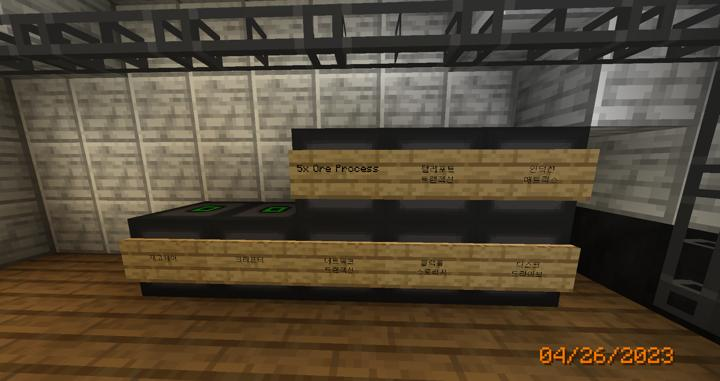
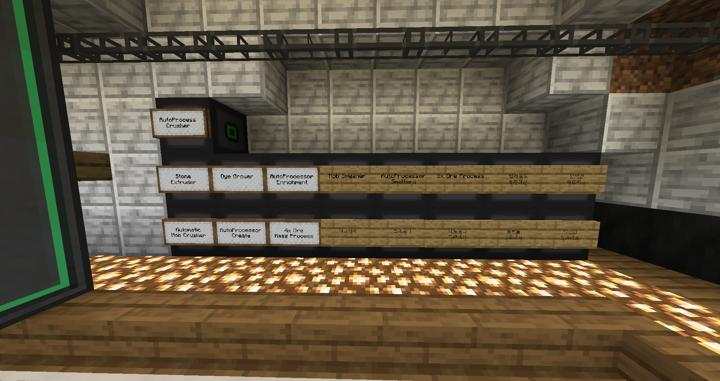
add jasuk500 forms

diff --git a/TagLinker/TagGenerators/ReverseLinkList.py b/TagLinker/TagGenerators/ReverseLinkList.py
@@ -91,7 +91,7 @@ class ReverseLinkListTagGenerator(TagGenerator):
             tagInfo.ArgDict["header"] = "### 보유 시설 목록"
             tagInfo.ArgDict["list_type"] = "table"
             tagInfo.ArgDict["table_header"] = "|시설|세부 사항|"
-            tagInfo.ArgDict["desc_type"] = "source"
+            tagInfo.ArgDict["desc_type"] = "target"
         elif (arg_preset_type == "spots_inside"):
             tagInfo.ArgDict["header"] = "### 하위 장소 목록"
             tagInfo.ArgDict["list_type"] = "table"

diff --git a/docs/Ko/SUMMARY.md b/docs/Ko/SUMMARY.md
@@ -40,14 +40,17 @@
   * [오컬티즘 매직 스토리지](systems/occultism_magic_storage.md)
   * [컴팩트 머신 방 보관소](systems/cm_compactmachine_main.md)
   * [텔레포터 허브](systems/teleporter_hub.md)
+  * [자동 몹 농장](systems/auto_mob_farm.md)
   * [메카니즘 에틸렌 발전기](systems/mk_ethylene_generator.md)
   * [메카니즘 광물 정제 플랜트](systems/mk_ore_processing_plant.md)
   * [메카니즘 황산 플렌트](systems/mk_sulfer_plant.md)
   * [메카니즘 리튬 플랜트](systems/mk_lithum_plant.md)
   * [메카니즘 수동 프로세서들](systems/mk_manual_processors.md)
-  * [메카니즘 자동 인리치멘트 체임버](systems/mk_auto_enrichment_chamber.md)
+  * [메카니즘 자동 병렬 인리치멘트 체임버](systems/mk_auto_enrichment_chamber.md)
+  * [메카니즘 자동 병렬 스멜터](systems/mk_auto_smeltery.md)
+  * [메카니즘 자동 병렬 크러셔](systems/mk_auto_crushers.md)
   * [메카니즘 자동 메탈러직 인퓨져](systems/mk_auto_metallurgic_infuser.md)
-  * [메카니즘 자동 스멜터 프로세서](systems/mk_auto_smeltery.md)
+  * [메카니즘 자동 컴프레싱 머신](systems/mk_auto_compressing.md)
   * [메카니즘 인덕션 메트릭스](systems/mk_induction_matrix.md)
   * [리파인드 스토리지 (메인)](systems/rs_main.md)
   * [리파인드 스토리지 네트워크 트랜젝션](systems/rs_network_tranjection.md)
@@ -56,6 +59,10 @@
   * [리파인드 스토리지 디스크 드라이브 룸](systems/rs_disk_drives.md)
   * [리파인드 스토리지 재고 제어](systems/rs_stock_control.md)
   * [텔레포터 트랜젝션](systems/teleporter_hub.md)
+  * [써멀 익스팬션 자동 플루이드 인캡슐레이터 - 물](systems/te_auto_fluid_encapsulator_water.md)
+  * [써멀 익스팬션 자동 인덕션 스멜터](systems/te_auto_induction_smelter.md)
+  * [써멀 익스팬션 자동 마그마 크루시블](systems/te_auto_magma_crucible.md)
+  * [써멀 익스팬션 자동 스톤 익스트루더](systems/te_stone_extruder.md)
   * [Create 철조각 및 부싯돌 생성 공장](systems/create_iron_flint_steal_factory.md)
   * [Create 반자동 안산암 합금 생성기](systems/create_semiauto_andesite_alloy_maker.md)
   * [Create 반자동 정밀기계 생성기](systems/create_semiauto_refinedmachine_generator.md)

diff --git a/docs/Ko/buildings/lab_meka_lab.md b/docs/Ko/buildings/lab_meka_lab.md
@@ -28,12 +28,17 @@
 ### 보유 시설 목록
 |시설|세부 사항|
 |---|---|
-|[리파인드 스토리지 (메인)](../systems/rs_main.md)|리파인드 스토리지의 메인 컨트롤러가 위치한 장소|
-|[메카니즘 자동 메탈러직 인퓨져](../systems/mk_auto_metallurgic_infuser.md)|RS 시스템에 연결되어 자동으로 병렬처리하는데 사용된다.|
-|[메카니즘 자동 스멜터 프로세서](../systems/mk_auto_smeltery.md)|RS 시스템에서 자동 스멜팅에 사용하는 병렬 스멜터리 그룹.|
-|[메카니즘 자동 인리치멘트 체임버](../systems/mk_auto_enrichment_chamber.md)|RS에 연결되어 자동으로 병렬 처리하는데 사용된다.|
-|[에틸렌 발전소](../systems/mk_ethylene_generator.md)|농작물을 연료로 가공해 만든 에틸렌을 가스 버닝 제너레이터가 태우는 메인 발전 시설로, 틱당 약 15만FE를 생산함|
-|[컴팩트 머신 메인](../systems/cm_compactmachine_main.md)|모든 컴팩트 머신 본체 보관소|
+|[리파인드 스토리지 (메인)](../systems/rs_main.md)||
+|[메카니즘 자동 메탈러직 인퓨져](../systems/mk_auto_metallurgic_infuser.md)||
+|[메카니즘 자동 병렬 스멜터](../systems/mk_auto_smeltery.md)|지금은 규모가 커져 컴팩트 머신 차원으로 옮겨졌다.|
+|[메카니즘 자동 병렬 인리치멘트 체임버](../systems/mk_auto_enrichment_chamber.md)|지금은 이곳에서 규모가 커짐에 따라 컴팩트 머신 차원으로 옮겼다|
+|[메카니즘 자동 병렬 크러셔](../systems/mk_auto_crushers.md)|지금은 컴팩트 머신 차원으로 옮겨졌다.|
+|[메카니즘 자동 컴프레싱 머신](../systems/mk_auto_compressing.md)||
+|[써멀 익스팬션 자동 마그마 크루시블](../systems/te_auto_magma_crucible.md)||
+|[써멀 익스팬션 자동 인덕션 스멜터](../systems/te_auto_induction_smelter.md)||
+|[써멀 익스팬션 자동 플루이드 인캡슐레이터 - 물](../systems/te_auto_fluid_encapsulator_water.md)||
+|[에틸렌 발전소](../systems/mk_ethylene_generator.md)||
+|[컴팩트 머신 메인](../systems/cm_compactmachine_main.md)|RS 시설 바로 옆에 위치하고 있다.|
 <!-- tag_close -->
 
 ### 참여자

diff --git a/docs/Ko/members/jasuk500.md b/docs/Ko/members/jasuk500.md
@@ -65,9 +65,16 @@
 |[리파인드 스토리지 크래프터 룸](../systems/rs_crafters.md)|설계, 제작, 텔레포터 허브 연결|
 |[메카니즘 인덕션 메트릭스](../systems/mk_induction_matrix.md)|텔레포터 배치|
 |[메카니즘 자동 메탈러직 인퓨져](../systems/mk_auto_metallurgic_infuser.md)|자동화 라인 설계 및 제작|
-|[메카니즘 자동 스멜터 프로세서](../systems/mk_auto_smeltery.md)|자동화 라인 설계 및 제작|
-|[메카니즘 자동 인리치멘트 체임버](../systems/mk_auto_enrichment_chamber.md)|자동화 라인 설계 및 제작|
+|[메카니즘 자동 병렬 스멜터](../systems/mk_auto_smeltery.md)|자동화 라인 설계 및 제작|
+|[메카니즘 자동 병렬 인리치멘트 체임버](../systems/mk_auto_enrichment_chamber.md)|자동화 라인 설계 및 제작|
+|[메카니즘 자동 병렬 크러셔](../systems/mk_auto_crushers.md)|시스템 설계 및 제작|
+|[메카니즘 자동 컴프레싱 머신](../systems/mk_auto_compressing.md)|시스템 설계 및 제작|
+|[써멀 익스팬션 자동 마그마 크루시블](../systems/te_auto_magma_crucible.md)|시스템 설계 및 제작|
+|[써멀 익스팬션 자동 스톤 익스트루더](../systems/te_stone_extruder.md)|시스템 설계 및 제작|
+|[써멀 익스팬션 자동 인덕션 스멜터](../systems/te_auto_induction_smelter.md)|시스템 설계 및 제작|
+|[써멀 익스팬션 자동 플루이드 인캡슐레이터 - 물](../systems/te_auto_fluid_encapsulator_water.md)|시스템 설계 및 제작|
 |[오컬티즘 매직 스토리지](../systems/occultism_magic_storage.md)|시스템 총괄 / 개발 / 스토리지 엑세서 배포 / 유지보수|
+|[자동 몹 농장](../systems/auto_mob_farm.md)|시스템 설계 및 제작|
 |[컴팩트 머신 메인](../systems/cm_compactmachine_main.md)|설계 및 제작|
 |[텔레포터 트랜잭션](../systems/teleporter_hub.md)|시스템 설계 / 제작 / 유지보수|
 <!-- tag_close -->

diff --git a/docs/Ko/systems/mk_auto_smeltery.md b/docs/Ko/systems/mk_auto_smeltery.md
@@ -1,11 +1,11 @@
-# 메카니즘 자동 스멜터 프로세서
+# 메카니즘 자동 병렬 스멜터
 
-RS 시스템에서 자동 스멜팅에 사용하는 병렬 스멜터리 그룹.
+32*9개의 쓰레드로 수천개의 아이템을 1분내에 구울 수 있다.
 
 ![asdf](../../asset/systems/mk_auto_smeltery/main.jpg)
 
-스멜터의 모든 조합법은 단일 입력, 단일 출력 방식이므로 XNet을 사용하여 쉽게 자동화할 수 있다.\
-현재 4개의 Elite Smeltery factort 블럭이 연결되어 있다.
+스멜터의 모든 조합법은 단일 입력, 단일 출력 방식이므로 XNet을 사용하여 쉽게 자동화할 수 있다.
+현재 32개의 Elite Smeltery factory 블럭이 연결되어 있다.
 
 :::tip
 XNet은 전력, 아이템, 유체까지 전부 node만 연결되어있다면 통신이 가능하므로, 이런 협소한 공간에서 매우 좋다. 
@@ -18,17 +18,22 @@ Xnet을 통해 다음과 같이 라우팅된다.
 
 ![sdf](../../asset/systems/mk_auto_smeltery/RS_Xnet_piping.jpg)
 
-:::warning
-현재 RS에서 제공되는 기본 Crafter의 아이템 출력 속도가 너무 느려, 지금 달려있는 모든 스멜터를 풀가동 시킬 수 없다.  
-:::
 
-:::tip Future Work
-이에 Extra Storage 애드온을 깔아 상위 티어의 Crafter를 사용함으로써 이 아이템 처리 병목이 해결될 수 있다.
-:::
+
+### 2023-05-06 대량 병렬 처리를 위해 32*9스레드 구조로 변경됨
+
+이전
+![asdf](../../asset/systems/mk_auto_smeltery/old.jpg)
+
+이후
+![asdf](../../asset/systems/mk_auto_smeltery/main.jpg)
+
 
 ### 위치
 <!-- tag_source_open:link_list:building_spot -->
-- [연구소 - 메카](../buildings/lab_meka_lab.md)
+- 컴팩트 머신 차원
+- [연구소 - 메카](../buildings/lab_meka_lab.md)  
+지금은 규모가 커져 컴팩트 머신 차원으로 옮겨졌다.
 <!-- tag_close -->
 
 ### 참여자

diff --git a/docs/Ko/systems/te_auto_induction_smelter.md b/docs/Ko/systems/te_auto_induction_smelter.md
@@ -1,0 +1,31 @@
+# 써멀 익스팬션 자동 인덕션 스멜터
+
+RS에 연결된 인덕션 스멜터리
+
+![asdf](../../asset/systems/te_auto_induction_smelter/main.jpg)
+
+써멀 익스팬션 모드를 개척하면서 제작되었다.
+
+필요한 수가 많지도 않고, 자주 사용하지도 않아서 1대만 놓았다.
+
+원래대로라면 써멀 익스팬션모드에서만 추가하는 다양한 합금을 만들어야 하지만, 그 합금들을 자동화하는 과정이 지나치게 빡세서 치워버렸다. 
+
+예시로, 철+금 / 철+글로우스톤 등을 사용하는 레시피가 같은 crafter에서 나오게 되면, 철+금+글로우스톤이 한번에 다 들어가 버려 기계가 멈추게 된다.
+
+또 다른 문제는 이런 아이템 조합 파이핑 때문에 병렬처리가 매우 힘들어진다는 것이다. 다른건 몰라도 합금을 굽는 시스템이 병렬 처리가 힘들다는건 정말 큰 단점이다.
+
+이에 우리는 인덕션 스멜터를 아예 배제하고 만드는 방법을 택했다. 주괴->(병렬 크러셔)->가루->(다이아몬드 크래프터)->블렌드 가루->(병렬 스멜터리)->합금의 다소 빙 돌아가는 공정이다. 하지만 이 방법에 사용되는 자동 프로세서들의 속도가 워낙 빠르기 때문에 이게 훨씬 낫다는 결론을 내렸다. 
+
+현재는 딱 1개의 조합법, hardened glass 만을 만드는데 쓰이고 있다.
+
+### 위치
+<!-- tag_source_open:link_list:building_spot -->
+- [연구소 - 메카](../buildings/lab_meka_lab.md)
+<!-- tag_close -->
+
+
+### 참여자
+<!-- tag_source_open:link_list:member_contribute -->
+- [jasuk500](../members/jasuk500.md)  
+시스템 설계 및 제작
+<!-- tag_close-->

diff --git a/docs/Ko/buildings/create_platform.md b/docs/Ko/buildings/create_platform.md
@@ -22,12 +22,12 @@ Create 시스템을 위한 모듈러 동력 전달 플랫폼.
 ### 보유 시설 목록
 |시설|세부 사항|
 |---|---|
-|[Create 메카니컬 조합기](../systems/create_mechanical_crafter.md)|사용할줄 모르면 첫 고난인 조합기 뉴비에게 시켜보면 꿀잼임|
-|[Create 반자동 안산암 합금 생성기](../systems/create_semiauto_andesite_alloy_maker.md)|한쪽에 안산암 다른쪽에 철조각을 넣으면 아래 상자에 나옴|
-|[Create 반자동 정밀기계 생성기](../systems/create_semiauto_refinedmachine_generator.md)|작은 톱니바퀴/큰 톱니바퀴/철조각을 넣으면 됨|
-|[Create 철조각 및 부싯돌 생성 공장](../systems/create_iron_flint_steal_factory.md)|철조각 압축으로 철주괴 생성 및 부싯돌 가득 차면 버리기 자동화|
-|[Create 케이스 생산 라인](../systems/create_case_line.md)|create의 모든 케이스를 생산 할 수 있는 자동화 라인.|
-|[철도 생성기](../systems/rail_generator.md)|위쪽 큰 상자에 철 조각을 넣으면 알아서 만들어줌|
+|[Create 메카니컬 조합기](../systems/create_mechanical_crafter.md)||
+|[Create 반자동 안산암 합금 생성기](../systems/create_semiauto_andesite_alloy_maker.md)||
+|[Create 반자동 정밀기계 생성기](../systems/create_semiauto_refinedmachine_generator.md)||
+|[Create 철조각 및 부싯돌 생성 공장](../systems/create_iron_flint_steal_factory.md)||
+|[Create 케이스 생산 라인](../systems/create_case_line.md)||
+|[철도 생성기](../systems/rail_generator.md)||
 <!-- tag_close -->
 
 ### 참여자

diff --git a/docs/Ko/systems/te_stone_extruder.md b/docs/Ko/systems/te_stone_extruder.md
@@ -1,0 +1,32 @@
+# 써멀 익스팬션 자동 스톤 익스트루더
+
+다양한 종류의 돌을 무한으로 뽑아내는 곳
+
+![asdf](../../asset/systems/te_stone_extruder/main.jpg)
+
+써멀 익스팬션의 Igneous Extruder를 사용하여, 다양한 종류의 돌을 생성하는 곳이다. 
+
+이그니우스 익스트루더는 전 버전에서는 물과 용암을 직접 소비했지만, 1.18버전에서는 양 옆에 물과 용암 소스가 놓이면 자동으로 계속 뽑히도록 바뀌었다. 원하는 돌 종류가 이젠 너무 많아졌는지, 이그니우스 익스트루더 바닥에 놓인 돌 종류에 따라서 나오는 돌도 바뀌도록 변경되었다.
+
+![asdf](../../asset/systems/te_stone_extruder/bottoms.jpg)
+
+:::tip
+Entalgled 블럭을 사용하여 깔끔하게 정리해보려 했지만, 인탱글드 블럭은 에너지나 아이템이 들어가는 파이핑만 원격으로 전해질 뿐, 블럭 근처에 어떤 블럭이 있는지 감지하는 코드와는 상관이 없는 것처럼 보였다.
+:::
+
+아직은 필요한 돌 종류가 많지 않지만, 쉽게 추가할 수 있도록 칸을 만들어 놓았다.
+현재 이그니우스 익스트루더의 조합법은 총 65개이며, 현재 22개의 칸이 만들어진 상태이다. 
+
+
+
+### 위치
+<!-- tag_source_open:link_list:building_spot -->
+- 컴팩트 머신 차원
+<!-- tag_close -->
+
+
+### 참여자
+<!-- tag_source_open:link_list:member_contribute -->
+- [jasuk500](../members/jasuk500.md)  
+시스템 설계 및 제작
+<!-- tag_close-->

diff --git a/docs/Ko/systems/auto_mob_farm.md b/docs/Ko/systems/auto_mob_farm.md
@@ -1,0 +1,39 @@
+# 자동 몹 농장
+
+RS 내부의 몹 드랍템 수량을 체크하며 자동으로 스폰하고 잡아주는 무인 농장.
+
+![asdf](../../asset/systems/auto_mob_farm/main.jpg)
+
+굉장히 다양한 모드의 조합으로 만들어졌다.
+
+- Apothoesis 모드에서 추가하는 스포너  
+- Industial Foregoing 모드의 mob crusher 
+- Flux Network 모드로 전력 무선 전송   
+- Xnet 모드로 아이템 파이핑 간소화 
+- Thermal Expansion의 Nullifier로 쓸데없는 방어구 삭제
+- Refined Storage의 import와 Detector를 사용하여 보관 및 재고 제어
+- Compact Machine 차원에서 렉을 최소화
+- Mekanism 모드의 텔레포터를 통해 오갈 수 있도록 조치
+
+![asdf](../../asset/systems/auto_mob_farm/structure.jpg)
+
+:::warning
+몹 크러셔에서 쓸모없는 갑옷 부산물이 나오는데, 현재 nullifier에 필요한 것만 블랙리스트를 줘서 다 없애고 있다. 
+추후에 새로운 몹을 추가할 땐, 해당 부산물을 필터에 추가해 주기 바란다.
+:::
+
+![asdf](../../asset/systems/auto_mob_farm/nulifier.jpg)
+
+### 위치
+<!-- tag_source_open:link_list:building_spot -->
+- 컴팩트 머신 차원
+<!-- tag_close -->
+
+
+### 참여자
+<!-- tag_source_open:link_list:member_contribute -->
+- [jasuk500](../members/jasuk500.md)  
+시스템 설계 및 제작
+- [happyjourney](../members/happyjourney.md)  
+시스템 설계 보조 및 제작
+<!-- tag_close-->

diff --git a/docs/Ko/systems/mk_auto_crushers.md b/docs/Ko/systems/mk_auto_crushers.md
@@ -1,0 +1,38 @@
+# 메카니즘 자동 병렬 크러셔
+
+32*9개의 크러셔로 1000개의 아이템을 8초안에 처리한다.
+
+![asdf](../../asset/systems/mk_auto_crushers/main.jpg)
+
+32개의 엘리트 크러셔를 병렬로 연결하여 아이템들을 순식간에 처리한다. 
+
+RS 네트워크에 연결되어 있으며, 주로 조약돌->자갈->모래 순으로 대량 확보하기 위해 제작되었다. 
+피크 속도는 초당 약 200개 가량의 아이템을 처리하며, XNet의 세팅을 세심하게 조정하여 효율을 높였다.
+
+:::tip
+XNet에서 input 상자에서 템을 크러셔들로 라우팅 할 때, 아이템 수량을 9의 배수로 뽑아내게 하고, 라우팅 방법은 round robin, 5ms, order로 세팅한다.
+:::
+
+### 2023-05-06 대량 병렬 처리 패치 
+
+이전  
+이전에는 1코어로 초당 6개 정도의 아이템을 처리했다.
+![asdf](../../asset/systems/mk_auto_crushers/old.jpg)
+
+이후
+![asdf](../../asset/systems/mk_auto_crushers/main.jpg)
+
+
+### 위치
+<!-- tag_source_open:link_list:building_spot -->
+- 컴팩트 머신 차원
+- [연구소 - 메카](../buildings/lab_meka_lab.md)  
+지금은 컴팩트 머신 차원으로 옮겨졌다.
+<!-- tag_close -->
+
+
+### 참여자
+<!-- tag_source_open:link_list:member_contribute -->
+- [jasuk500](../members/jasuk500.md)  
+시스템 설계 및 제작
+<!-- tag_close-->

diff --git a/docs/Ko/systems/te_auto_fluid_encapsulator_water.md b/docs/Ko/systems/te_auto_fluid_encapsulator_water.md
@@ -1,0 +1,33 @@
+# 써멀 익스팬션 자동 플루이드 인캡슐레이터 - 물
+
+RS에 연결되어 자동으로 돌아가는 플루이드 인캡슐레이터
+
+![asdf](../../asset/systems/te_auto_fluid_encapsulator/main.jpg)
+
+현재 물을 사용하는 조합만 빠르게 사용 가능하다.
+
+앞으로의 건축에 사용될 대량의 콘크리트를 처리하기 위해 설계되었다. 
+
+처음에는 Create 모드의 Enchased Fan을 사용하자는 이야기가 나왔으나, 다음과 같은 이유들로 불발되었다.
+
+- 아이템 엔티티가 많아지면 서버에 랙을 유발할 것
+- 64개 이상으로 만들면 무조건 1분씩 기다려야 함
+- 아이템을 빠르게 1스택씩 아이템화 시켜서 떨어트리는 방법이 많지 않음
+
+
+:::tip
+물은 Cooking For Blockheads 라는 요리 모드의 Sink 블럭에서 뽑아쓰고 있다.  
+이 블럭은 진짜 무슨 생각인지, 내부에 21억버킷의 물이 들어있어서 사실상 무한 물 소스로 활용 가능하다.
+:::
+
+### 위치
+<!-- tag_source_open:link_list:building_spot -->
+- [연구소 - 메카](../buildings/lab_meka_lab.md)
+<!-- tag_close -->
+
+
+### 참여자
+<!-- tag_source_open:link_list:member_contribute -->
+- [jasuk500](../members/jasuk500.md)  
+시스템 설계 및 제작
+<!-- tag_close-->

diff --git a/docs/Ko/members/BANJUHARA.md b/docs/Ko/members/BANJUHARA.md
@@ -34,8 +34,8 @@
 |[메카니즘 수동 프로세서들](../systems/mk_manual_processors.md)|기계 배치 및 파이프라인 설계 / 제작|
 |[메카니즘 인덕션 메트릭스](../systems/mk_induction_matrix.md)|유도 매트릭스 규모 산정 / 설계 및 제작 / 유지보수|
 |[메카니즘 자동 메탈러직 인퓨져](../systems/mk_auto_metallurgic_infuser.md)|초기 자동화 라인 개발 참여|
-|[메카니즘 자동 스멜터 프로세서](../systems/mk_auto_smeltery.md)|초기 자동화 라인 개발 참여|
-|[메카니즘 자동 인리치멘트 체임버](../systems/mk_auto_enrichment_chamber.md)|초기 자동화 라인 개발 참여|
+|[메카니즘 자동 병렬 스멜터](../systems/mk_auto_smeltery.md)|초기 자동화 라인 개발 참여|
+|[메카니즘 자동 병렬 인리치멘트 체임버](../systems/mk_auto_enrichment_chamber.md)|초기 자동화 라인 개발 참여|
 |[메카니즘 핵 분열로](../systems/mk_fission_reactor.md)|핵 분열로 설계 및 제작 / 유지보수|
 |[메카니즘 황산 플랜트](../systems/mk_sulfer_plant.md)|파이프라인 설계 및 제작|
 |[몹 스포터 농장](../systems/mobspawner_farm.md)|몹 스포터 룸으로 개조|
